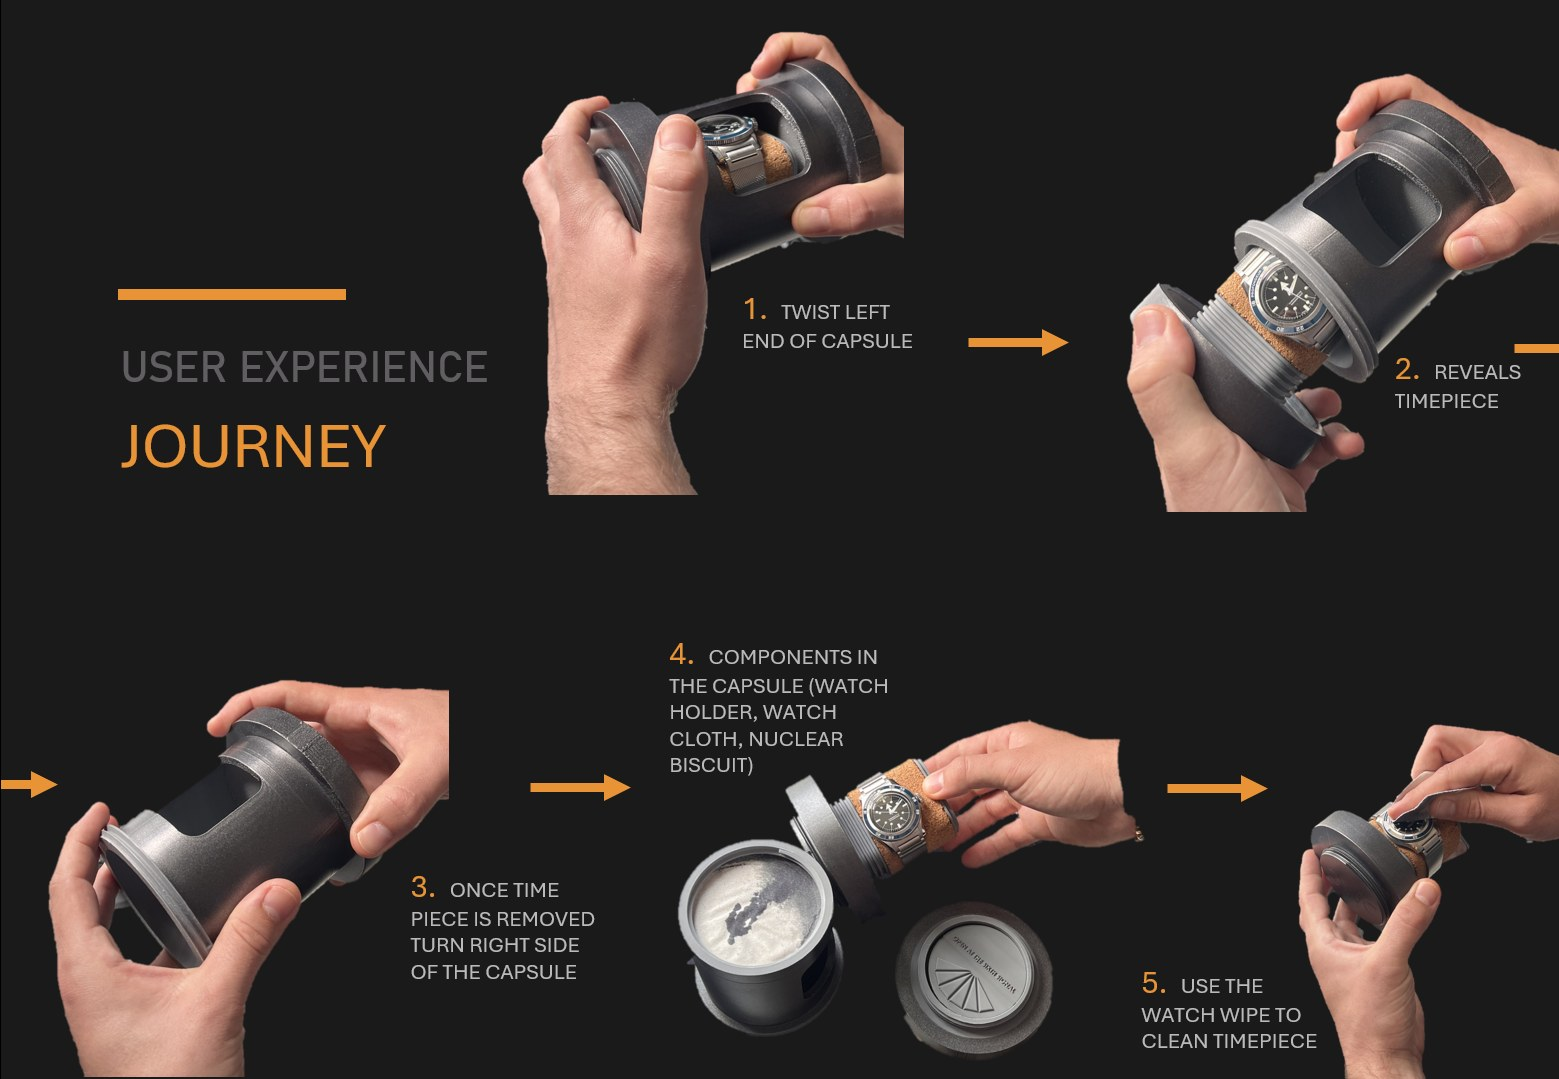
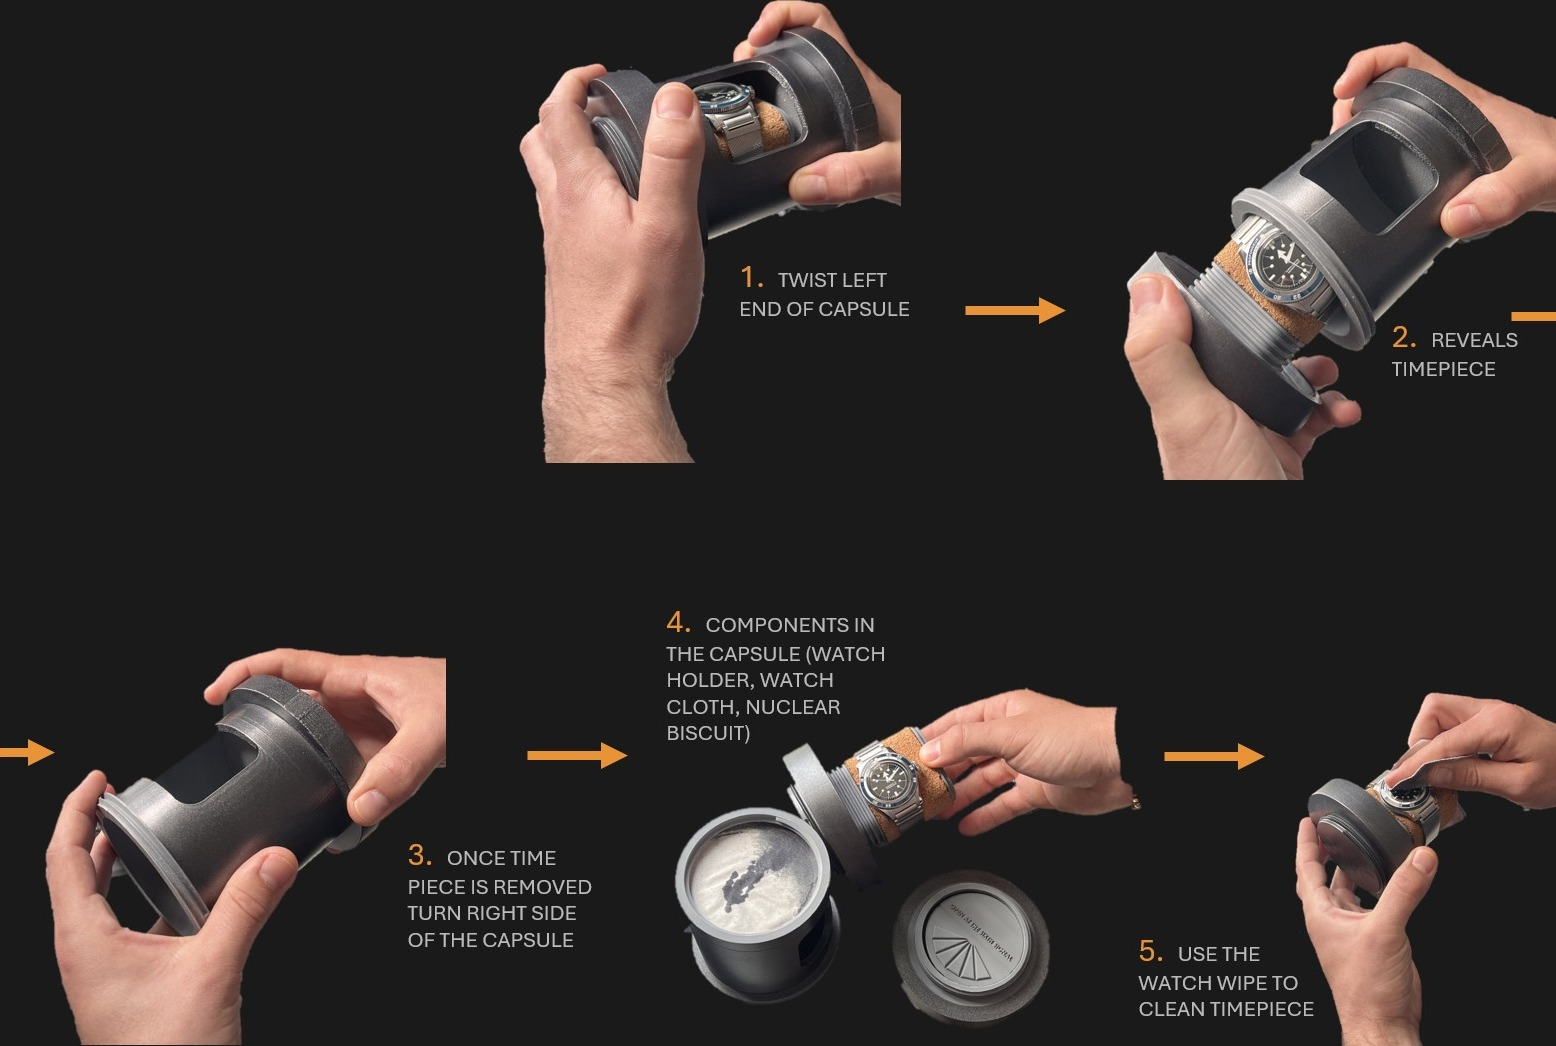
Add files via upload

diff --git a/schofield-capsule.html b/schofield-capsule.html
@@ -20,10 +20,10 @@
 <div><a class="back" href="index.html#work">← All work</a><h1>Schofield Capsule</h1><p class="lede">A watch box that is opened like a secret: twist, reveal, then crack the&nbsp;code.</p></div>
 <figure class="slot" data-file="swc-poster-2.jpg"><img src="swc-poster-2.jpg" alt="Return of the Capsule poster: the capsule floating over a lunar surface" loading="lazy"></figure>
 </section>
-<dl class="facts"><div><dt>Client</dt><dd>Schofield Watch&nbsp;Company</dd></div><div><dt>Brief</dt><dd>Set by Giles Ellis, owner of Schofield Watch&nbsp;Company</dd></div><div><dt>Product</dt><dd>Watch&nbsp;box</dd></div><div><dt>Status</dt><dd>Prototype</dd></div></dl>
+<dl class="facts"><div><dt>Client</dt><dd>Schofield Watch&nbsp;Company</dd></div><div><dt>Brief</dt><dd>Live client&nbsp;brief</dd></div><div><dt>Product</dt><dd>Watch&nbsp;box</dd></div><div><dt>Status</dt><dd>Prototype</dd></div></dl>
 <section class="chapter"><div><div class="num">01 · Brief</div><h2>Ritual, secrecy and belonging</h2></div><div class="body"><p>Schofield buyers collect stories as much as watches. Giles Ellis, owner of Schofield Watch Company, set the brief: a watch box built around ritual, secrecy and belonging, that would not end up in the&nbsp;bin.</p></div></section>
-<section class="chapter"><div><div class="num">02 · Process</div><h2>From box to capsule</h2></div><div class="body"><p>I sketched trays, hinged cases, barrel boxes and watch rolls first. They all worked, but they felt like every other watch box. The capsule's rugged cylinder fitted Schofield's brutalist look and opened the door to a nuclear&nbsp;theme.</p><div class="gallery"><figure class="slot wide fit sketch" data-file="swc-sketch-box.jpg"><img src="swc-sketch-box.jpg" alt="Sketch of a square watch box with accessory compartments and a magnetic lid" loading="lazy"></figure><figure class="slot wide fit sketch" data-file="swc-sketch-case.jpg"><img src="swc-sketch-case.jpg" alt="Sketch of a rugged watch case with a lift-out tray and cam latch" loading="lazy"></figure><figure class="slot wide fit sketch" data-file="swc-sketch-oval.jpg"><img src="swc-sketch-oval.jpg" alt="Sketches of an oval box with a barrel hinge and a barrel-shaped case" loading="lazy"></figure><figure class="slot wide fit sketch" data-file="swc-sketch-capsule.jpg"><img src="swc-sketch-capsule.jpg" alt="Sketch of the cylindrical capsule with twist-off cap and watch cushion" loading="lazy"></figure></div></div></section>
-<section class="chapter"><div><div class="num">03 · The hidden compartment</div><h2>The nuclear biscuit</h2></div><div class="body"><p>Giles runs a secret owners' club, the Buoys Club. You get in with a password, and at the moment that password arrives in a letter Giles posts to every buyer of a Schofield&nbsp;watch.</p><p>I saw that as a problem worth solving. Every letter costs Giles money and sits apart from the watch. The password could live inside the box&nbsp;instead.</p><p>So the capsule has a secret compartment holding a watch wipe and a "nuclear biscuit". The idea comes from nuclear launch codes: nobody is allowed to know the code in advance, so when the moment comes, the card is snapped open to reveal it. Here, snapping the biscuit reveals the password to the Buoys&nbsp;Club.</p><p>The biscuit completes the capsule's story and gives the owner something to do, not just something to read. It also removes the need for a separate letter, in a more considered and engaging&nbsp;way.</p><div class="gallery"><figure class="slot wide fit has-badge biscuit-wood" data-file="swc-biscuit-wood.png"><img class="nuke-badge" src="swc-nuclear.png" alt=""><img src="swc-biscuit-wood.png" alt="Wooden nuclear biscuit render, face reading Open at the sixth signal, and side view showing the snap line" loading="lazy"></figure></div></div></section>
+<section class="chapter"><div><div class="num">02 · Process</div><h2>From box to capsule</h2></div><div class="body"><p>I sketched trays, hinged cases, barrel boxes and watch rolls first. They all worked, but they felt like every other watch box. The capsule's rugged cylinder fitted Schofield's brutalist look and opened the door to a nuclear&nbsp;theme.</p><a href="swc-sketches.png" style="display:block;cursor:zoom-in;margin-top:20px"><img src="swc-sketches.png" alt="Concept sketches: a rugged case, an oval box open and closed, a barrel case, and the capsule closed, open with the watch, and its twist-off cap" loading="lazy" style="width:100%;height:auto;display:block"></a></div></section>
+<section class="chapter"><div><div class="num">03 · The hidden compartment</div><h2>The nuclear biscuit</h2></div><div class="body"><p>Giles runs a secret owners' club, the Buoys Club. You get in with a password, and at the moment that password arrives in a letter Giles posts to every buyer of a Schofield&nbsp;watch.</p><p>I saw that as a problem worth solving. Every letter costs Giles money and sits apart from the watch. The password could live inside the box&nbsp;instead.</p><p>So the capsule has a secret compartment holding a watch wipe and a "nuclear biscuit". The idea comes from nuclear launch codes: nobody is allowed to know the code in advance, so when the moment comes, the card is snapped open to reveal it. Here, snapping the biscuit reveals the password to the Buoys&nbsp;Club.</p><p>The biscuit completes the capsule's story and gives the owner something to do, not just something to read. It also removes the need for a separate letter, in a more considered and engaging&nbsp;way.</p><div class="gallery"><figure class="slot wide fit biscuit-wood" data-file="swc-biscuit-wood.png"><img src="swc-biscuit-wood.png" alt="Wooden nuclear biscuit render, face reading Open at the sixth signal, and side view showing the snap line" loading="lazy"></figure></div></div></section>
 <section class="chapter"><div><div class="num">04 · Materials</div><h2>Material selection</h2></div><div class="body"><div class="mats">
 <div class="mat"><h3>Stainless steel</h3><p>Chosen for its durability and weight, which give a sense of treasure and security. It is 100% recyclable and suits the raw, brutalist look of the Schofield&nbsp;brand.</p></div>
 <div class="mat"><h3>Cork</h3><p>A renewable, carbon-positive material. It gives the watch a soft, non-abrasive nest and is naturally antimicrobial and&nbsp;long-lasting.</p></div>
@@ -32,7 +32,7 @@
 </div></div></section>
 <section class="chapter proto-dark"><div><div class="num">05 · Prototype</div><h2>The capsule, printed</h2></div><div class="body"><p>I 3D printed the capsule to test its proportions, the twist-off end caps and how the watch sits behind the glass panel. The orange end cap carries the nuclear symbol that runs through the whole&nbsp;story.</p>
 <div class="proto-grid"><img class="pg-a" src="swc-proto-pair.png" alt="Two printed capsules, one with the watch facing forward behind the glass panel" loading="lazy"><img class="pg-b" src="swc-proto-a.png" alt="Printed capsule angled to show the orange nuclear end cap" loading="lazy"><img class="pg-c" src="swc-proto-b.png" alt="Printed capsule standing on end with the watch visible" loading="lazy"></div></div></section>
-<section class="chapter proto-dark wide-sec" style="background:#1A1A1A"><div><div class="num">06 · User experience</div><h2>Opening the capsule</h2></div><div class="body"><p>Opening the capsule is a short ritual. Twist the left end to reveal the watch, then turn the right end to find the watch cloth and the nuclear&nbsp;biscuit.</p><a href="swc-journey.jpg" style="display:block;margin-top:24px;cursor:zoom-in"><img src="swc-journey.jpg" alt="User experience journey in five steps: twist the left end of the capsule, the watch is revealed, turn the right side once the watch is removed, the components inside (watch holder, watch cloth, nuclear biscuit), and using the watch wipe to clean the watch" loading="lazy" style="width:100%;height:auto;display:block;border-radius:12px"></a></div></section>
+<section class="chapter proto-dark wide-sec" style="background:#1A1A1A;overflow:hidden"><div><div class="num">06 · User experience</div><h2>Opening the capsule</h2></div><div class="body"><p>Opening the capsule is a short ritual. Twist the left end to reveal the watch, then turn the right end to find the watch cloth and the nuclear&nbsp;biscuit.</p><a href="swc-journey.jpg" style="display:block;cursor:zoom-in;margin:28px calc(-1 * clamp(28px,5vw,64px)) calc(-1 * clamp(28px,5vw,64px))"><img src="swc-journey.jpg" alt="Opening the capsule in five steps: twist the left end of the capsule, the watch is revealed, turn the right side once the watch is removed, the components inside (watch holder, watch cloth, nuclear biscuit), and using the watch wipe to clean the watch" loading="lazy" style="width:100%;height:auto;display:block"></a></div></section>
 <section class="chapter"><div><div class="num">07 · Proposed launch</div><h2>Return of the Capsule</h2></div><div class="body"><p>To launch the capsule I designed a campaign around the poster, starting with an Instagram post for Schofield's&nbsp;followers.</p>
 <div class="ig" aria-label="Instagram launch post concept">
 <div class="ig-head"><span class="ig-av"><svg viewBox="0 0 40 40" aria-hidden="true"><circle cx="20" cy="20" r="17" fill="none" stroke="#1B1B19" stroke-width="2.4"/><circle cx="20" cy="20" r="13.5" fill="none" stroke="#1B1B19" stroke-width="1.2"/><path d="M12.5 12 L27.5 12 L20 31 Z" fill="#1B1B19"/></svg></span><span><strong>schofieldwatchcompany</strong><br><small>Proposed launch</small></span><span class="ig-more" aria-hidden="true">•••</span></div>

diff --git a/modurun.html b/modurun.html
@@ -31,7 +31,7 @@
 </div></div></section>
 <section class="chapter"><div><div class="num">04 · Outcome</div><h2>Modular by design</h2></div><div class="body"><p>Runners choose which modules they want and where they go: small pockets for keys and gels, a large pocket for a phone or rain jacket, and two soft ModuRun flasks. Parachute cord running round the belt gives a micro-adjust fit from 65 to 115&nbsp;cm, and patches let runners personalise&nbsp;it.</p><div class="flat"><img src="mr-flat-1.jpg" alt="Flat illustration of the ModuRun belt with two soft flasks, a phone pocket and two zipped pouches" loading="lazy"><img src="mr-flat-2.jpg" alt="Flat illustration of the ModuRun belt with the modules in a different arrangement" loading="lazy"></div><div class="gallery"><figure class="slot wide fit" data-file="modurun.webp"><img src="modurun.webp" alt="ModuRun belt with two soft bottles and a phone pocket" loading="lazy"></figure><figure class="slot wide fit" data-file="mr-render-2.webp"><img src="mr-render-2.webp" alt="ModuRun belt from behind, showing the ventilation cut-outs and lacing" loading="lazy"></figure></div></div></section>
 <section class="chapter"><div><div class="num">05 · Manufacture</div><h2>Made without seams</h2></div><div class="body"><div class="stats"><div class="stat"><span class="stat-num">£17</span><span>Landed cost per&nbsp;unit.</span></div><div class="stat"><span class="stat-num">5,000</span><span>Unit production&nbsp;run.</span></div><div class="stat"><span class="stat-num">£40-60</span><span>Target retail&nbsp;price.</span></div></div><p>We costed the belt part by part, from the PA6 and elastane shell to the YKK zips and the labour. Instead of stitching, the edges are ultrasonically welded and the stress points bonded with TPU film, so there are no raised seams to rub against wet skin. The soft flasks are RF-welded TPU with an injection-moulded&nbsp;neck.</p></div></section>
-<section class="chapter"><div><div class="num">06 · Branding</div><h2>Name, logo and&nbsp;merchandise</h2></div><div class="body"><p>The ring around the name follows the shape of a running belt. The lettering is custom, based on Aviano Sans, so no other brand's name will look like&nbsp;it.</p><div class="swatches"><span style="background:#C9221E">#C9221E</span><span style="background:#000">#000000</span></div><div class="brand-logo"><img src="logo-modurun.png" alt="ModuRun logo" loading="lazy"></div><img class="wide-img" src="mr-tshirts.jpg" alt="ModuRun T-shirts in white and black, with the full logo and with the ring alone" loading="lazy"><p style="margin-top:22px">The belt ships in a plastic-free cardboard mailer, with its contents and specifications printed&nbsp;inside.</p><a href="mr-dieline.jpg" style="display:block;cursor:zoom-in"><img class="wide-img dieline" src="mr-dieline.jpg" alt="Dieline for the black ModuRun mailer box, with the logo, contents list and specifications" loading="lazy"></a></div></section>
+<section class="chapter"><div><div class="num">06 · Branding</div><h2>Name, logo and&nbsp;merchandise</h2></div><div class="body"><p>The ring around the name follows the shape of a running belt. The lettering is custom, based on Aviano Sans, so no other brand's name will look like&nbsp;it.</p><div class="swatches"><span style="background:#C9221E">#C9221E</span><span style="background:#000">#000000</span></div><div class="brand-logo"><img src="logo-modurun.png" alt="ModuRun logo" loading="lazy"></div><img class="wide-img" src="mr-tshirts.jpg" alt="ModuRun T-shirts in white and black, with the full logo and with the ring alone" loading="lazy"><p style="margin-top:22px">The belt ships in a plastic-free cardboard mailer, with its contents and specifications printed&nbsp;inside.</p><a href="mr-dieline.png" style="display:block;cursor:zoom-in;margin-top:16px"><img class="dieline" src="mr-dieline.png" style="width:100%;height:auto;display:block;margin-inline:auto" alt="Dieline for the black ModuRun mailer box, with the logo, contents list and specifications" loading="lazy"></a></div></section>
 <section class="chapter"><div><div class="num">07 · Social media</div><h2>Run More Miles</h2></div><div class="body"><p>We designed posters for Instagram Stories to promote the belt. The plan was to give belts and modules to the fastest runners at running events, and to launch a "Run More Miles" campaign where runners earn points for every mile, redeemable as discount codes in the ModuRun&nbsp;store.</p><div class="socials"><img src="mr-post-trail.jpg" alt="Instagram Story poster: ModuRun presents Trail Run, 5K, 10K, 20K" loading="lazy"><img src="mr-post-miles.jpg" alt="Instagram Story poster: Run More Miles, with a runner on a track" loading="lazy"></div></div></section>
 
 <a class="next" href="potting-cup.html" style="--accent:#E2620F"><span class="label">Next project</span><span class="big">Potting Cup →</span></a>

diff --git a/index.html b/index.html
@@ -128,7 +128,7 @@
                 </div>
                 <p class="ad-lede">I'm a final-year Product Design student at the University of Sussex. I design from user research: I test ideas early with the people who will use them, and I change the design based on what I&nbsp;learn.</p>
                 <p>My final-year project, VisNav, pairs haptic wristbands with an app to give visually impaired sailors steering cues. I've also worked on live briefs for Stanley Black &amp; Decker, Bird &amp; Blend Tea Co. and Schofield Watch Company, and won the Global Design Challenge with a bamboo farm to clean the Jukskei River and ease housing pressure in Makers&nbsp;Valley.</p>
-                <p>I graduate in summer 2027 and I'm available for full-time product design roles from June&nbsp;2027.</p>
+                <p>I graduate in summer 2027 and I'm available for full-time work from June&nbsp;2027.</p>
                 <div class="ad-cols">
                     <div>
                         <h3>What I'm good at</h3>
@@ -137,7 +137,6 @@
                             <li>Inclusive&nbsp;design</li>
                             <li>3D printing and workshop&nbsp;prototyping</li>
                             <li>Basic&nbsp;mechanisms</li>
-                            <li>Arduino for&nbsp;prototyping</li>
                         </ul>
                         </div>
                     <div>

diff --git a/style.css b/style.css
@@ -337,9 +337,9 @@ button.obj{appearance:none;border:0;background:none;padding:0;font:inherit;color
 .profile dt{font-size:var(--step--1);color:var(--muted);text-transform:uppercase;letter-spacing:.06em}
 .profile dd{margin:2px 0 0;font-weight:600}
 @media (max-width:640px){.profile dl{grid-template-columns:repeat(2,auto)}}
-.chapter.bcorp{background:#0F5132;color:#EAF4EC;border-radius:22px;padding:clamp(28px,5vw,64px);border-top:0;margin-block:clamp(24px,4vw,48px);position:relative}
-.bcorp h2{color:#fff}.bcorp .num{color:#9BE0B4}
-.bcorp .mat{background:#14643F;border-color:#2B8A5B;border-top-color:#9BE0B4;color:#EAF4EC}
+.chapter.bcorp{background:#1E1D1B;color:#ECE9E3;border-radius:22px;padding:clamp(28px,5vw,64px);border-top:0;margin-block:clamp(24px,4vw,48px);position:relative}
+.bcorp h2{color:#fff}.bcorp .num{color:#CDBF9F}
+.bcorp .mat{background:#282724;border-color:#3A3834;border-top-color:#CDBF9F;color:#ECE9E3}
 .bcorp .mat h3{color:#fff}
 .bcorp-mark{display:grid;place-items:center;width:58px;height:58px;border:3px solid #fff;border-radius:50%;font-family:var(--display);font-weight:700;font-size:1.9rem;color:#fff;margin-bottom:18px}
 .gallery.small-pair{max-width:440px}
